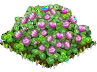
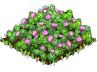
increment phase seeds

diff --git a/app/controllers/game_controller.rb b/app/controllers/game_controller.rb
@@ -17,8 +17,10 @@ class GameController < ApplicationController
   def add_item_on_stage
     x = params[:x]  
     y = params[:y]
+    type = params[:item_type]
     
     item = StageItem.create(
+      :item_type => type,
       :phase => 0,
       :x => x,
       :y => y)
@@ -33,6 +35,21 @@ class GameController < ApplicationController
     render :xml => out_string;  
   end  
 
+  def inc_item_phase
+    item = StageItem.find(params[:id])
+
+    if item.nil? 
+      render :nothing => true
+    else
+      type = ItemType.find(item.item_type)
+      if type.phase_count > item.phase
+        item.phase = item.phase + 1
+      end
+      item.save
+      render :nothing => true
+    end        
+  end
+
   def get_game_state
       state = Builder::XmlMarkup.new( :target => out_string = "", :indent => 2 )
       state.Stage{
@@ -46,6 +63,20 @@ class GameController < ApplicationController
         }
       }
       render :xml => out_string;  
+  end
+
+  def collect_item
+    item = Stageitem.find(params[:id])
+
+    if item.nil? 
+      render :nothing => true
+    else
+      item.phase = 0
+      item.item_type = nil
+      item.save
+
+      render :nothing => true
+    end        
   end
 
 end
